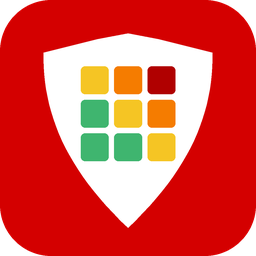
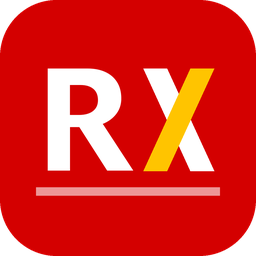
PWA: benzersiz manifest kimliği (UUID), projeye özel önbellek adı, RX simgesi

diff --git a/apps/rax/app/sw.js b/apps/rax/app/sw.js
@@ -6,7 +6,8 @@
 'use strict';
 
 const SURUM = '__SURUM__';
-const CACHE = `risk-analizi-${SURUM}`;
+const ONEK = 'dolfin-rax-44cce8b4-'; // aynı kökende (thevanerr.github.io) başka projelerin önbellekleriyle karışmaz
+const CACHE = `${ONEK}${SURUM}`;
 const SHELL = [
   './',
   'index.html',
@@ -32,7 +33,7 @@ self.addEventListener('install', (e) => {
 
 self.addEventListener('activate', (e) => {
   e.waitUntil(caches.keys()
-    .then((keys) => Promise.all(keys.filter((k) => k.startsWith('risk-analizi-') && k !== CACHE).map((k) => caches.delete(k))))
+    .then((keys) => Promise.all(keys.filter((k) => k.startsWith(ONEK) && k !== CACHE).map((k) => caches.delete(k))))
     .then(() => self.clients.claim()));
 });
 

diff --git a/apps/rax/app/araclar/ikon-uret.py b/apps/rax/app/araclar/ikon-uret.py
@@ -1,41 +1,18 @@
-# Uygulama simgesi: Dolfin kırmızısı zemin, beyaz kalkan, içinde 3x3 risk matrisi (yeşil -> sarı -> kırmızı)
+# Uygulama simgesi: "RX" monogramı (R&AX) — Dolfin kırmızısı zemin, beyaz kalın R, X'in bir kolu sarı (risk/uyarı vurgusu)
 # Üretir: assets/ikon.png (256), assets/ikon.ico (kısayol), assets/pwa/ (PWA: 192, 512, maskable 512, apple 180, favicon 32)
 # Kullanım: python app/araclar/ikon-uret.py
 import os
-from PIL import Image, ImageDraw
+from PIL import Image, ImageDraw, ImageFont
 
 here = os.path.dirname(os.path.abspath(__file__))
 assets = os.path.join(here, '..', 'assets')
 pwa = os.path.join(assets, 'pwa')
 os.makedirs(pwa, exist_ok=True)
+font = os.path.join(assets, 'fonts', 'selawkb.ttf')
 
 RED = (212, 0, 0, 255)
 WHITE = (255, 255, 255, 255)
-GREEN, AMBER, ORANGE, HOT = (63, 181, 111, 255), (245, 197, 36, 255), (245, 124, 0, 255), (176, 0, 0, 255)
-# Risk matrisi: satır = olasılık (üst yüksek), sütun = şiddet (sağ yüksek)
-MATRIX = [
-    [AMBER, ORANGE, HOT],
-    [GREEN, AMBER, ORANGE],
-    [GREEN, GREEN, AMBER],
-]
-
-
-def shield(d, cx, top, w, h, fill):
-    """Üstü düz, altı sivri kalkan (bezier yerine çokgen yaklaşımı)"""
-    l, r = cx - w / 2, cx + w / 2
-    pts = [(l, top + h * 0.10), (cx - w * 0.18, top + h * 0.03), (cx, top), (cx + w * 0.18, top + h * 0.03), (r, top + h * 0.10)]
-    steps = 24
-    for i in range(1, steps + 1):  # sağ kenar, aşağı doğru kavisli
-        t = i / steps
-        x = r - (r - cx) * (t ** 2.2)
-        y = top + h * 0.10 + (h * 0.90) * t
-        pts.append((x, y))
-    for i in range(steps - 1, 0, -1):  # sol kenar, yukarı
-        t = i / steps
-        x = l + (cx - l) * (t ** 2.2)
-        y = top + h * 0.10 + (h * 0.90) * t
-        pts.append((x, y))
-    d.polygon(pts, fill=fill)
+AMBER = (255, 196, 0, 255)
 
 
 def draw(size, maskable=False, rounded=True):
@@ -45,23 +22,49 @@ def draw(size, maskable=False, rounded=True):
     if maskable or not rounded:
         d.rectangle([0, 0, s, s], fill=RED)
     else:
-        d.rounded_rectangle([0, 0, s - 1, s - 1], radius=int(s * 0.20), fill=RED)
-    k = 0.78 if maskable else 1.0  # maskable: içerik %80 güvenli bölgede kalır
-    cx = s / 2
-    sw, sh = s * 0.66 * k, s * 0.76 * k
-    top = (s - sh) / 2 + s * 0.01
-    shield(d, cx, top, sw, sh, WHITE)
-    # risk matrisi kalkanın üst-orta kısmında
-    g = sw * 0.56
-    gap = g * 0.06
-    cell = (g - 2 * gap) / 3
-    gx, gy = cx - g / 2, top + sh * 0.17
-    rad = max(2, int(cell * 0.16))
-    for ri, row in enumerate(MATRIX):
-        for ci, col in enumerate(row):
-            x0 = gx + ci * (cell + gap)
-            y0 = gy + ri * (cell + gap)
-            d.rounded_rectangle([x0, y0, x0 + cell, y0 + cell], radius=rad, fill=col)
+        d.rounded_rectangle([0, 0, s - 1, s - 1], radius=int(s * 0.22), fill=RED)
+    k = 0.80 if maskable else 1.0  # maskable: içerik %80 güvenli bölgede
+    # R harfi (yazı tipinden), X iki kalın çizgi
+    h = s * 0.40 * k                     # harf yüksekliği
+    f = ImageFont.truetype(font, int(h * 1.40))
+    bb = d.textbbox((0, 0), 'R', font=f)
+    rw, rh = bb[2] - bb[0], bb[3] - bb[1]
+    sc = h / rh
+    xw = h * 0.80                        # X genişliği
+    gap = h * 0.04
+    total = rw * sc + gap + xw
+    x0 = (s - total) / 2
+    y0 = (s - h) / 2 - h * 0.08
+    # R: ayrı katmanda çiz, yüksekliği h olacak şekilde ölçekle
+    layer = Image.new('RGBA', (int(rw) + 8, int(rh) + 8), (0, 0, 0, 0))
+    ImageDraw.Draw(layer).text((4 - bb[0], 4 - bb[1]), 'R', font=f, fill=WHITE)
+    layer = layer.resize((max(1, int(layer.width * sc)), max(1, int(layer.height * sc))), Image.LANCZOS)
+    im.alpha_composite(layer, (int(x0 - 4 * sc), int(y0 - 4 * sc)))
+    # X: iki kalın kol; sağ-üstten sol-alta kol sarı ve üstte
+    t = h * 0.21
+    xl, xr, yt, yb = x0 + rw * sc + gap, x0 + total, y0, y0 + h
+
+    def bar(p, q, col):
+        import math
+        dx, dy = q[0] - p[0], q[1] - p[1]
+        L = math.hypot(dx, dy)
+        nx, ny = -dy / L * t / 2, dx / L * t / 2
+        d.polygon([(p[0] + nx, p[1] + ny), (q[0] + nx, q[1] + ny), (q[0] - nx, q[1] - ny), (p[0] - nx, p[1] - ny)], fill=col)
+
+    # kollar harf kutusunu taşmasın diye uçlar yatay kesik
+    mask = Image.new('L', (s, s), 0)
+    ImageDraw.Draw(mask).rectangle([xl - t, yt, xr + t, yb], fill=255)
+    xlayer = Image.new('RGBA', (s, s), (0, 0, 0, 0))
+    d = ImageDraw.Draw(xlayer)
+    bar((xl + t * 0.35, yt - t), (xr - t * 0.35, yb + t), WHITE)
+    bar((xr - t * 0.35, yt - t), (xl + t * 0.35, yb + t), AMBER)
+    xlayer.putalpha(Image.composite(xlayer.getchannel('A'), Image.new('L', (s, s), 0), mask))
+    im.alpha_composite(xlayer)
+    # alt çizgi: rapor anteti motifi
+    by = yb + h * 0.16
+    line = Image.new('RGBA', (s, s), (0, 0, 0, 0))
+    ImageDraw.Draw(line).rectangle([x0, by, x0 + total, by + max(4, h * 0.08)], fill=(255, 255, 255, 150))
+    im.alpha_composite(line)
     return im.resize((size, size), Image.LANCZOS)
 
 

diff --git a/apps/rax/app/README.md b/apps/rax/app/README.md
@@ -49,6 +49,6 @@ Carlito ve Selawik (SIL OFL), semboller DejaVu Sans alt kümesi (`assets/fonts/L
 
 ## PWA ve GitHub Pages
 
-Uygulama kurulabilir bir PWA'dır: `manifest.webmanifest` (kimlik `/dolfin-cnk-rax-risk-analizi-5c1e7b92`; değiştirilirse kurulu uygulamalar ayrı uygulama sayılır), `sw.js` (uygulama kabuğunu ağ önce / önbellek yedek ile tutar; GitHub API, `__api/` ve `projects/` `models/` verileri önbelleğe girmez) ve `assets/pwa/` simgeleri (`python app/araclar/ikon-uret.py` üretir: kalkan içinde 3×3 risk matrisi).
+Uygulama kurulabilir bir PWA'dır: `manifest.webmanifest` (kimlik `./?pwa=dolfin-rax-risk-analizi-44cce8b4-4d1d-4fba-98c4-af3c1b3731f8`, start_url'e göre çözülür → `/R-AX/?pwa=…`; değiştirilirse kurulu uygulamalar ayrı uygulama sayılır), `sw.js` (uygulama kabuğunu ağ önce / önbellek yedek ile tutar; GitHub API, `__api/` ve `projects/` `models/` verileri önbelleğe girmez) ve `assets/pwa/` simgeleri (`python app/araclar/ikon-uret.py` üretir: kalkan içinde 3×3 risk matrisi).
 
 Yayın: `.github/workflows/pages.yml` — `main`'e `app/**` değişikliği gidince `app/` klasörünü (`araclar/`, `*.md`, kısayol betikleri hariç) GitHub Pages'e yükler ve `sw.js` içindeki `__SURUM__` değerini commit kimliğiyle değiştirir (her yayında önbellek yenilenir). Adres: `https://thevanerr.github.io/R-AX/`. Veriler yayına girmez; uygulama gizli veri deposuna kullanıcının kendi anahtarıyla bağlanır. Service worker yalnız https ve localhost'ta çalışır; `file://` kısayolu eskisi gibi açılır.
